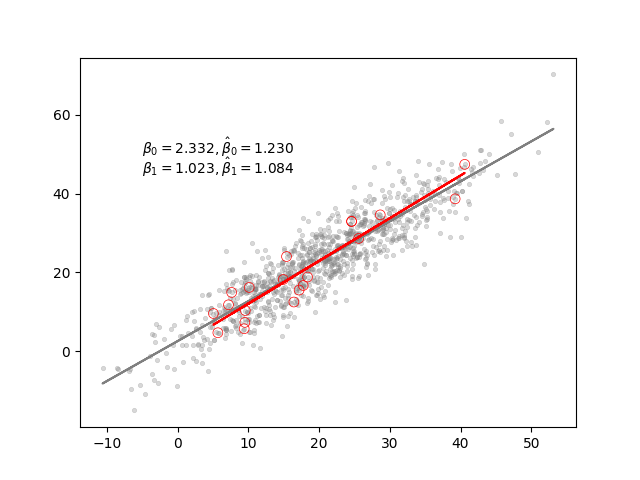
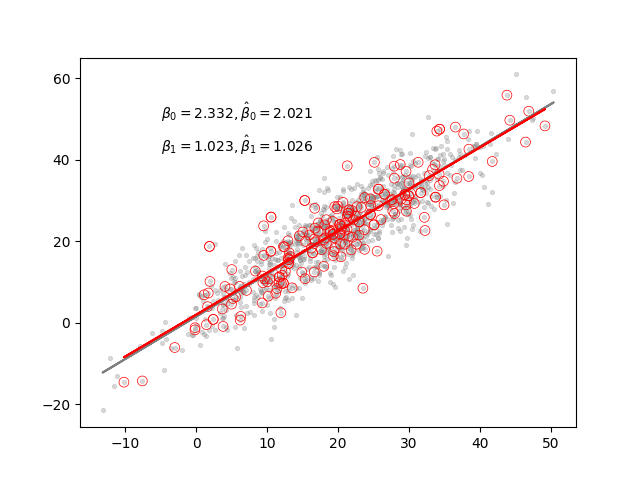
ols

diff --git a/ols.py b/ols.py
@@ -4,19 +4,18 @@ import matplotlib.pyplot as plt
 
 ### OLS 
 # y = beta_0 + beta_1*x + epsilon -> population regression line
-#
-pop_size = 1000
-x = np.random.normal(20, 10, pop_size).reshape((pop_size, 1))
+
+pop_size = 5000
+x = np.random.normal(20, 10, (pop_size, 1))
 sigma_epsilon = 5
-epsilon = np.random.normal(0, sigma_epsilon, pop_size)
+epsilon = np.random.normal(0, sigma_epsilon, (pop_size, 1))
 beta_0 = 2.3324
 beta_1 = 1.0234
-y = beta_0 + beta_1*x[:, 0] + epsilon
+y = beta_0 + beta_1*x + epsilon
 
-n = 20
+n = 60
 idx_sample = np.random.randint(low=0, high=len(x), size=n)
 x_sample, y_sample = x[idx_sample], y[idx_sample]
-
 
 model_pop = LinearRegression()
 model_pop.fit(x, y)
@@ -26,15 +25,15 @@ model = LinearRegression()
 model.fit(x_sample, y_sample)
 y_mean_sample = model.predict(x_sample)
 
-beta_0_hat = model.intercept_
-beta_1_hat = model.coef_[0]
+beta_0_hat = model.intercept_[0]
+beta_1_hat = model.coef_[0][0]
 
 
 fig, ax = plt.subplots()
 ax.scatter(x[:, 0], y, facecolors='gray', edgecolors='gray', s=10, linewidths=0.5, alpha=0.3)
-ax.scatter(x_sample[:, 0], y_sample, facecolor='None', edgecolors='red', linewidths=0.5, s=50)
+ax.scatter(x_sample[:, 0], y_sample, facecolor='None', edgecolors='red', linewidths=0.5, s=30)
 ax.plot(x[:, 0], y_mean_pop, color='gray')
 ax.plot(x_sample[:, 0], y_mean_sample, color='red')
 ax.text(x=-5, y=50, s=rf'$\beta_0 = {beta_0:.3f}, \hat{{\beta}}_0 = {beta_0_hat:.3f}$')
-ax.text(x=-5, y=40, s=rf'$\beta_1 = {beta_1:.3f}, \hat{{\beta}}_1 = {beta_1_hat:.3f}$')
+ax.text(x=-5, y=42, s=rf'$\beta_1 = {beta_1:.3f}, \hat{{\beta}}_1 = {beta_1_hat:.3f}$')
 plt.savefig('ols.png')
